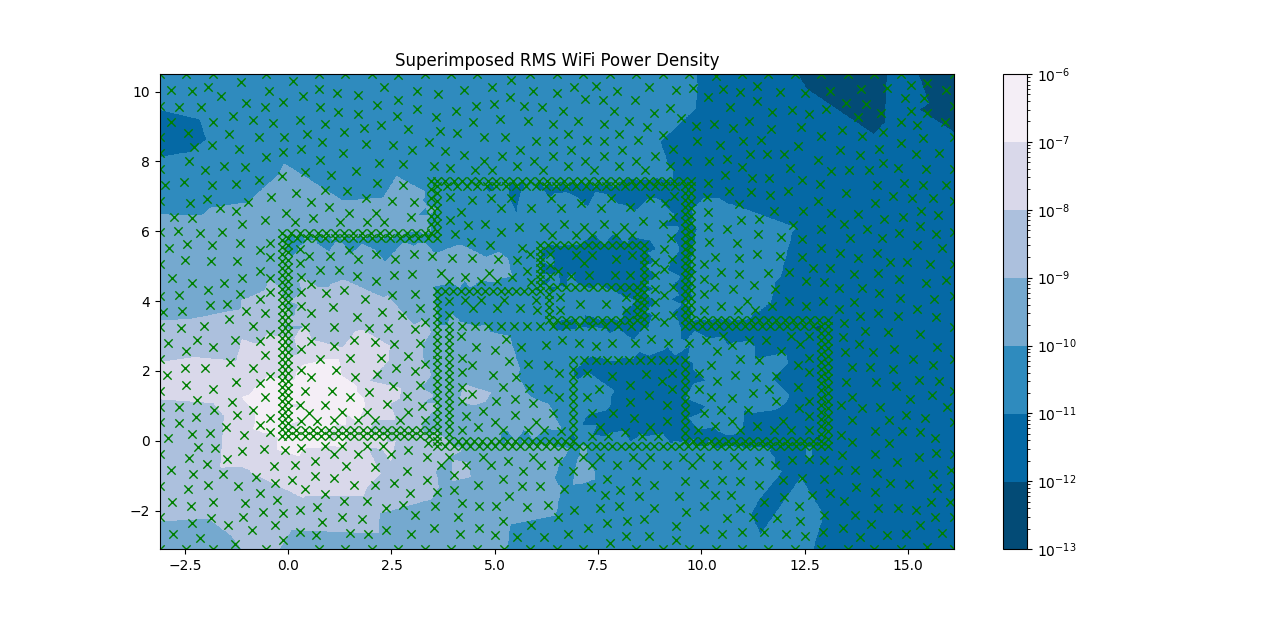
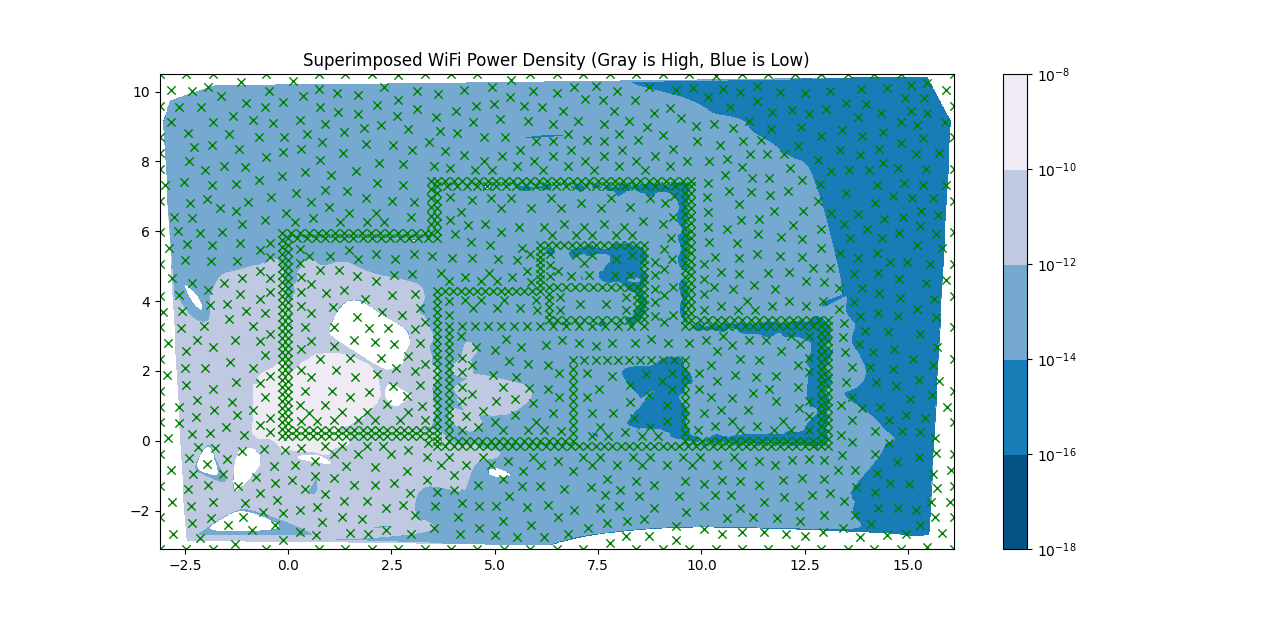
Version 1.4
Implemented a custom subroutine to perform gaussian quadrature to evaluate the double integrals over the triangles that form the matrix entries. Also, plotting was changed from nearest neighbor interpolation to cubic interpolation.

diff --git a/ssWFS.py b/ssWFS.py
@@ -9,8 +9,8 @@ field over the domain of my house using the linear finite element method. Sectio
 Section 12.5 of Burden and Faires, and Chapter 8 of Reddy were the three main resources consulted in the construction
 of this program.
 
-February 16, 2020
-v1.3.0
+February 18, 2020
+v1.4.0
 """
 
 import numpy as np
@@ -22,6 +22,105 @@ from scipy.sparse.linalg import spsolve, gmres
 import matplotlib.pyplot as plt
 from matplotlib import ticker
 from shapely.geometry import Point, Polygon
+
+def evaluateZInt(x_coords, y_coords, tri_coefs_j, tri_coefs_k):
+    """
+    Function to evaluate integral over a triangular elements that does not involve the source term f
+    using Gaussian quadrature
+
+    Parameters:
+    x_coords: Length 3 numpy array pf x-coordinates [x_0, x_1, x_2] of verticies of triangle
+    y_coords: Length 3 numpy array of y-coordinates [y_0, y_1, y_2] of verticies of triangle
+    tri_coefs_j: Length 3 numpy array of triangle coefficents [a_j, b_j, c_j]
+    tri_coefs_k: Length 3 numpy array of triangle coefficents [a_k, b_k, c_k]
+    """
+    x_0 = x_coords[0]
+    x_1 = x_coords[1]
+    x_2 = x_coords[2]
+    y_0 = y_coords[0]
+    y_1 = y_coords[1]
+    y_2 = y_coords[2]
+    a_j_i = tri_coefs_j[0]
+    b_j_i = tri_coefs_j[1]
+    c_j_i = tri_coefs_j[2]
+    a_k_i = tri_coefs_k[0]
+    b_k_i = tri_coefs_k[1]
+    c_k_i = tri_coefs_k[2]
+    gauss_c = np.array([0.3626837833783620,0.3626837833783620,0.3137066458778873,0.3137066458778873,0.2223810344533745,0.2223810344533745,0.1012285362903763,0.1012285362903763])
+    gauss_r = np.array([-0.1834346424956498,0.1834346424956498,-0.5255324099163290,0.5255324099163290,-0.7966664774136267,0.7966664774136267,-0.9602898564975363,0.9602898564975363])
+    #Change coordinates so double integral is over the triangle with verticies (0,0),(1,0),(0,1)
+    J_abs = np.abs((x_1 - x_0)*(y_2 - y_0) - (x_2 - x_0)*(y_1 - y_0))#Absolute value of determinant of Jacobian matrix
+    #Apply two-variable Gaussian quadrature, this involves another change of variables-multiply Jacobians
+    h = 0.5
+    J2 = 0.0
+    for m in np.arange(len(gauss_r)):
+        u = h*gauss_r[m] + h
+        d = 1.0 - u
+        k = d/2.0
+        J2X = 0.0
+        for n in np.arange(len(gauss_r)):
+            v = k*gauss_r[n] + k
+            phi = (x_1 - x_0)*u + (x_2 - x_0)*v + x_0
+            psi = (y_1 - y_0)*u + (y_2 - y_0)*v + y_0
+            val = (a_j_i*a_k_i) + (a_j_i*b_k_i + a_k_i*b_j_i)*phi + (a_j_i*c_k_i + a_k_i*c_j_i)*psi
+            val = val + (b_j_i*b_k_i)*np.power(phi,2) + (b_j_i*c_k_i + c_j_i*b_k_i)*phi*psi + (c_j_i*c_k_i)*np.power(psi,2)
+            val = J_abs*val#Jacobian is a constant, as the derivatives are of linear functions
+            J2X = J2X + gauss_c[n]*val
+            J2 = J2 + gauss_c[m]*h*J2X
+    z_int = h*J2#Approximation of double integral
+    return z_int
+
+def evaluateHInt(x_coords, y_coords, tri_coefs_j):
+    """
+    Function to evaluate integral over a triangular elements that does involve the source term f
+    using Gaussian quadrature
+
+    Parameters:
+    x_coords: Length 3 numpy array pf x-coordinates [x_0, x_1, x_2] of verticies of triangle
+    y_coords: Length 3 numpy array of y-coordinates [y_0, y_1, y_2] of verticies of triangle
+    tri_coefs_j: Length 3 numpy array of triangle coefficents [a_j, b_j, c_j]
+
+    Return:
+    Approximation to integral involving f over triangle
+    """
+    x_0 = x_coords[0]
+    x_1 = x_coords[1]
+    x_2 = x_coords[2]
+    y_0 = y_coords[0]
+    y_1 = y_coords[1]
+    y_2 = y_coords[2]
+    a_j_i = tri_coefs_j[0]
+    b_j_i = tri_coefs_j[1]
+    c_j_i = tri_coefs_j[2]
+    gauss_c = np.array([0.3626837833783620,0.3626837833783620,0.3137066458778873,0.3137066458778873,0.2223810344533745,0.2223810344533745,0.1012285362903763,0.1012285362903763])
+    gauss_r = np.array([-0.1834346424956498,0.1834346424956498,-0.5255324099163290,0.5255324099163290,-0.7966664774136267,0.7966664774136267,-0.9602898564975363,0.9602898564975363])
+    #Change coordinates so double integral is over the triangle with verticies (0,0),(1,0),(0,1)
+    J_abs = np.abs((x_1 - x_0)*(y_2 - y_0) - (x_2 - x_0)*(y_1 - y_0))#Absolute value of determinant of Jacobian matrix
+    #Apply two-variable Gaussian quadrature, this involves another change of variables-multiply Jacobians
+    h = 0.5
+    J2 = 0.0
+    for m in np.arange(len(gauss_r)):
+        u = h*gauss_r[m] + h
+        d = 1.0 - u
+        k = d/2.0
+        J2X = 0.0
+        for n in np.arange(len(gauss_r)):
+            v = k*gauss_r[n] + k
+            phi = (x_1 - x_0)*u + (x_2 - x_0)*v + x_0
+            psi = (y_1 - y_0)*u + (y_2 - y_0)*v + y_0
+            #Control magnitude of source term - point sources will cause the integration subroutine to fail
+            denom = ((phi - 0.5)**2 + (psi - 1.0)**2)
+            A = 0
+            if denom < 1:
+                A = (3.0 - 2.0*denom)*(a_j_i + (b_j_i*phi) + (c_j_i*psi))#Ensure the continuity
+            else:
+                A = (a_j_i + (b_j_i*phi) + (c_j_i*psi))/denom
+            f = J_abs*A#Jacobian is a constant, as the derivatives are of linear functions
+            J2X = J2X + gauss_c[n]*f
+            J2 = J2 + gauss_c[m]*h*J2X
+    H_int = h*J2#Approximation of double integral
+    return H_int
+
 
 def triangulationFEM(gp):
     """
@@ -223,46 +322,15 @@ def calcTriangleIntegrals(linear_polynomials, tri_bois, grid_points, eps_r_arr, 
     H_arr = np.zeros((N,3))
     for i in np.arange(N):
         x_0,y_0,x_1,y_1,x_2,y_2 = extractVertexCoordinates(tri_bois[i], grid_points)
+        x_coords = np.array([x_0, x_1, x_2])
+        y_coords = np.array([y_0, y_1, y_2])
         Area_triangle = 0.5*np.linalg.det(np.array([[x_0,y_0,1],[x_1,y_1,1],[x_2,y_2,1]]))
-
-        #Change coordinates so double integral is over the triangle with verticies (0,0),(1,0),(0,1)
-        J_abs = np.abs((x_1 - x_0)*(y_2 - y_0) - (x_2 - x_0)*(y_1 - y_0))#Absolute value of determinant of Jacobian matrix
-
-
         for j in np.arange(3):
             a_j_i,b_j_i,c_j_i = extractTriangleCoefs(linear_polynomials[i][j])
-
-            #Evaluate linear polynomial times the source term f at a point (u,v)
-            def f(u,v):
-                phi = (x_1 - x_0)*u + (x_2 - x_0)*v + x_0
-                psi = (y_1 - y_0)*u + (y_2 - y_0)*v + y_0
-                #Control magnitude of source term - point sources will cause the integration subroutine to fail
-                denom = ((phi - 0.5)**2 + (psi - 1.0)**2)
-                if denom < 1:
-                    val = (2 - denom)*(a_j_i + (b_j_i*phi) + (c_j_i*psi))#Ensure the continuity
-                else:
-                    val = (a_j_i + (b_j_i*phi) + (c_j_i*psi))/denom
-                return J_abs*val#Multiply by Jacobian
-
+            t_j_coefs = np.array([a_j_i, b_j_i, c_j_i])
             for k in np.arange(j+1):
                 a_k_i,b_k_i,c_k_i = extractTriangleCoefs(linear_polynomials[i][k])
-
-                #Evaluate composition of change of coordinates map and product of two linear polynomials at point (u,v)
-                def h_1(u,v):
-                    phi = (x_1 - x_0)*u + (x_2 - x_0)*v + x_0
-                    psi = (y_1 - y_0)*u + (y_2 - y_0)*v + y_0
-                    val = (a_j_i*a_k_i) + (a_j_i*b_k_i + a_k_i*b_j_i)*phi + (a_j_i*c_k_i + a_k_i*c_j_i)*psi
-                    val = val + (b_j_i*b_k_i)*np.power(phi,2) + (b_j_i*c_k_i + c_j_i*b_k_i)*phi*psi + (c_j_i*c_k_i)*np.power(psi,2)
-                    return val*J_abs#Multiply by Jacobian
-
-                #Bounds for double integration
-                def bounds_u():
-                    return [0.0,1.0]
-
-                def bounds_v(u):
-                    return [0.0, 1.0 - u]
-
-                double_integral_z,error_est_z = nquad(h_1, [bounds_v, bounds_u])#Calculate double integral of product of linear polynomials (N_j^i)(N_k^i) over triangle with verticies (0,0),(1,0),(0,1)
+                t_k_coefs = np.array([a_k_i, b_k_i, c_k_i])
                 eps_r = 1.0
                 eps_r_V0 = eps_r_arr[tri_bois[i][0]]
                 eps_r_V1 = eps_r_arr[tri_bois[i][1]]
@@ -272,8 +340,9 @@ def calcTriangleIntegrals(linear_polynomials, tri_bois, grid_points, eps_r_arr, 
                 e_0 = 8.8541878176e-12
                 u_0 = 12.5663706144e-7
                 k_sq = (omega**2)*eps_r*e_0*u_0
-                z_arr[i][j][k] = (b_j_i*b_k_i*Area_triangle) + (c_j_i*c_k_i*Area_triangle) - (k_sq*double_integral_z)
-            double_integral_H, error_est_H = nquad(f, [bounds_v, bounds_u])
+                double_int_z = evaluateZInt(x_coords, y_coords, t_j_coefs, t_k_coefs)
+                z_arr[i][j][k] = (b_j_i*b_k_i*Area_triangle) + (c_j_i*c_k_i*Area_triangle) - (k_sq*double_int_z)
+            double_integral_H = evaluateHInt(x_coords, y_coords, t_j_coefs)
             H_arr[i][j] = -1.0*double_integral_H
     return z_arr, H_arr
 
@@ -309,8 +378,8 @@ def calcLineIntegrals(tri_bois, linear_polynomials, gp, node_markers):
         #Check if triangle has at least two points on boundary. If this is true, then the triangle has at least one side along the boundary
         if onBoundary(tri_bois[i], node_markers):
             for j in np.arange(3):
+                a_j_i,b_j_i,c_j_i = extractTriangleCoefs(linear_polynomials[i][j])
                 for k in np.arange(j+1):
-                    a_j_i,b_j_i,c_j_i = extractTriangleCoefs(linear_polynomials[i][j])
                     a_k_i,b_k_i,c_k_i = extractTriangleCoefs(linear_polynomials[i][k])
 
                     #Compute line integrals along boundary of each triangular element using Simpson's rule
@@ -500,15 +569,6 @@ def graphFEMSol(grid_points, tri_bois, E_coefs_24, E_coefs_5, B_coefs_24, B_coef
             B_phasor_5[ii] = B_phasor_5[ii] + B_coefs_5[tri_bois[ii][jj]]*(linear_poly[ii][jj][0] + linear_poly[ii][jj][1]*centroid_x + linear_poly[ii][jj][2]*centroid_y)
     u_0 = 12.5663706144e-7
 
-    #RMS Time averaging 
-    t_24 = np.linspace(0, 2*np.pi, num=1024, endpoint=True)
-    t_5 = np.linspace(0, 0.96*np.pi, num=1024, endpoint=True)
-    for ii in np.arange(N):
-        E_phasor_24[ii] = np.sqrt(np.sum(np.power(E_phasor_24[ii]*np.sin(t_24), 2)))
-        E_phasor_5[ii] = np.sqrt(np.sum(np.power(E_phasor_5[ii]*np.sin(t_5), 2)))
-        B_phasor_24[ii] = np.sqrt(np.sum(np.power(E_phasor_24[ii]*np.sin(t_24), 2)))
-        B_phasor_5[ii] = np.sqrt(np.sum(np.power(E_phasor_5[ii]*np.sin(t_5), 2)))
-
     #Power density
     power_density = np.power(E_phasor_24 + E_phasor_5,2)/(2.0*np.sqrt(u_0/eps_arr))
     print(power_density)
@@ -517,24 +577,24 @@ def graphFEMSol(grid_points, tri_bois, E_coefs_24, E_coefs_5, B_coefs_24, B_coef
     xi = np.linspace(-3.1, 16.1, 1000)
     yi = np.linspace(-3.1, 10.5, 1000)
     X,Y = np.meshgrid(xi,yi)
-    Z = griddata((x_vals, y_vals), power_density, (X, Y), method='nearest')
+    Z = griddata((x_vals, y_vals), power_density, (X, Y), method='cubic')
     # contour the gridded power density data, plotting dots at the nonuniform data points.
     fig, ax = plt.subplots()
     cs = ax.contourf(X, Y, Z, locator=ticker.LogLocator(), cmap = 'PuBu_r')#Plot interpolated power density data
     cbar = fig.colorbar(cs)
     ax.scatter(grid_points[:,0],grid_points[:,1], marker='x', linewidths=1, c='g')#Plot grid points for reference
-    ax.set_title("Superimposed RMS WiFi Power Density")
+    ax.set_title("Superimposed WiFi Power Density (Gray is High, Blue is Low)")
 
     #Magnetic Field
-    B_phasor = B_phasor_24 + B_phasor_5
+    B_phasor = np.sqrt(np.power(B_phasor_24 + B_phasor_5, 2))
     del B_phasor_24
     del B_phasor_5
     fig2, ax2 = plt.subplots()
-    Z_B = griddata((x_vals, y_vals), B_phasor, (X, Y), method='nearest')
+    Z_B = griddata((x_vals, y_vals), B_phasor, (X, Y), method='cubic')
     cs2 = ax2.contourf(X, Y, Z_B, locator=ticker.LogLocator(), cmap = 'PuBu_r')#Plot interpolated power density data
     cbar2 = fig2.colorbar(cs2)
     ax2.scatter(grid_points[:,0],grid_points[:,1], marker='x', linewidths=1, c='g')#Plot grid points for reference
-    ax2.set_title("Magnetic Field")
+    ax2.set_title("Magnetic Field Magnitude (Gray is High, Blue is Low)")
     plt.show()
     
 def main():
